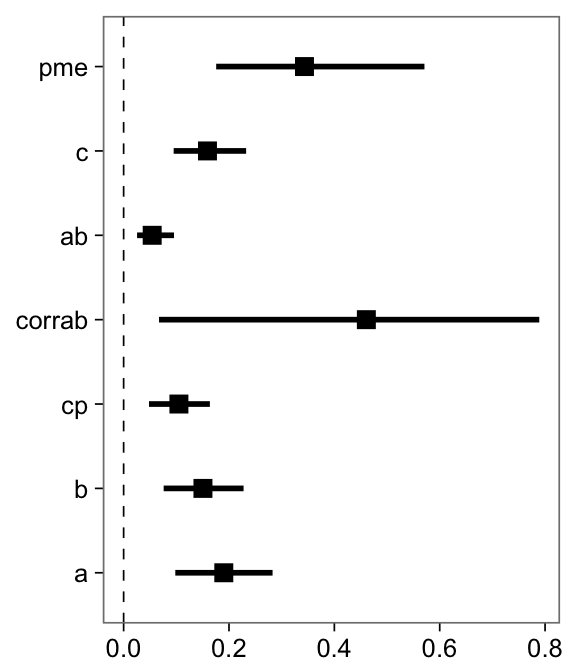
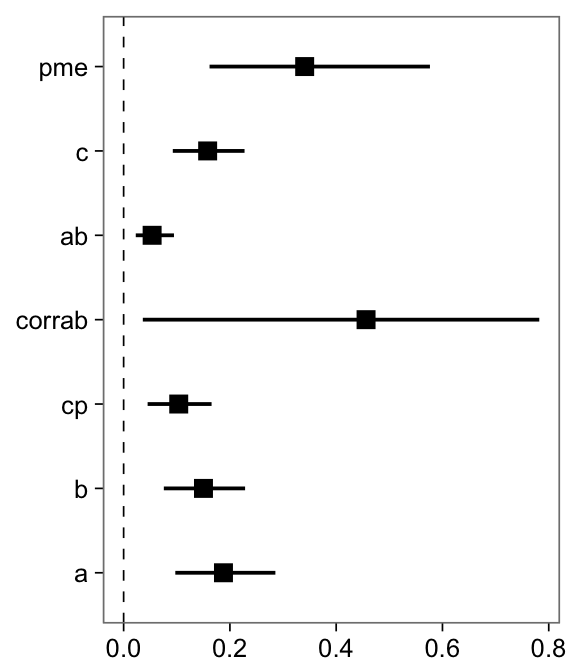
tips and tricks

diff --git a/index.html b/index.html
@@ -11,7 +11,7 @@
 
 <meta name="author" content="Matti Vuorre" />
 
-<meta name="date" content="2016-07-14" />
+<meta name="date" content="2016-07-15" />
 
 <title>bmlm: Multilevel Mediation Modeling with Stan</title>
 
@@ -330,7 +330,7 @@ div.tocify {
 
 <h1 class="title toc-ignore">bmlm: Multilevel Mediation Modeling with Stan</h1>
 <h4 class="author"><em>Matti Vuorre</em></h4>
-<h4 class="date"><em>2016-07-14</em></h4>
+<h4 class="date"><em>2016-07-15</em></h4>
 
 </div>
 
@@ -597,88 +597,88 @@ fit &lt;-<span class="st"> </span><span class="kw">mlm</span>(<span class="dt">d
 <td align="right">0.19</td>
 <td align="right">0.04</td>
 <td align="right">0.19</td>
-<td align="right">0.13</td>
-<td align="right">0.25</td>
+<td align="right">0.10</td>
+<td align="right">0.29</td>
 <td align="right">1.00000</td>
-<td align="right">2106</td>
-<td align="right">1</td>
+<td align="right">2148</td>
+<td align="right">1.00</td>
 </tr>
 <tr class="even">
 <td align="left">b</td>
 <td align="right">0.15</td>
 <td align="right">0.03</td>
 <td align="right">0.15</td>
-<td align="right">0.10</td>
-<td align="right">0.20</td>
+<td align="right">0.08</td>
+<td align="right">0.23</td>
 <td align="right">1.00000</td>
-<td align="right">2077</td>
-<td align="right">1</td>
+<td align="right">2007</td>
+<td align="right">1.00</td>
 </tr>
 <tr class="odd">
 <td align="left">cp</td>
 <td align="right">0.10</td>
 <td align="right">0.02</td>
 <td align="right">0.10</td>
-<td align="right">0.06</td>
-<td align="right">0.14</td>
+<td align="right">0.05</td>
+<td align="right">0.17</td>
 <td align="right">1.00000</td>
 <td align="right">4000</td>
-<td align="right">1</td>
+<td align="right">1.00</td>
 </tr>
 <tr class="even">
 <td align="left">ab</td>
-<td align="right">0.06</td>
+<td align="right">0.05</td>
 <td align="right">0.01</td>
 <td align="right">0.05</td>
-<td align="right">0.03</td>
-<td align="right">0.08</td>
+<td align="right">0.02</td>
+<td align="right">0.09</td>
 <td align="right">1.00000</td>
-<td align="right">1902</td>
-<td align="right">1</td>
+<td align="right">1473</td>
+<td align="right">1.00</td>
 </tr>
 <tr class="odd">
 <td align="left">c</td>
 <td align="right">0.16</td>
 <td align="right">0.03</td>
 <td align="right">0.16</td>
-<td align="right">0.12</td>
-<td align="right">0.21</td>
+<td align="right">0.09</td>
+<td align="right">0.23</td>
 <td align="right">1.00000</td>
-<td align="right">4000</td>
-<td align="right">1</td>
+<td align="right">2951</td>
+<td align="right">1.00</td>
 </tr>
 <tr class="even">
 <td align="left">pme</td>
 <td align="right">0.35</td>
 <td align="right">0.08</td>
 <td align="right">0.34</td>
-<td align="right">0.23</td>
-<td align="right">0.49</td>
+<td align="right">0.16</td>
+<td align="right">0.58</td>
 <td align="right">1.00000</td>
-<td align="right">1977</td>
-<td align="right">1</td>
+<td align="right">1766</td>
+<td align="right">1.00</td>
 </tr>
 <tr class="odd">
 <td align="left">covab</td>
 <td align="right">0.03</td>
 <td align="right">0.01</td>
 <td align="right">0.03</td>
-<td align="right">0.01</td>
-<td align="right">0.04</td>
-<td align="right">0.99925</td>
-<td align="right">1604</td>
-<td align="right">1</td>
+<td align="right">0.00</td>
+<td align="right">0.05</td>
+<td align="right">0.99775</td>
+<td align="right">1364</td>
+<td align="right">1.01</td>
 </tr>
 <tr class="even">
 <td align="left">corrab</td>
 <td align="right">0.45</td>
-<td align="right">0.14</td>
+<td align="right">0.15</td>
 <td align="right">0.46</td>
-<td align="right">0.20</td>
-<td align="right">0.69</td>
-<td align="right">0.99925</td>
-<td align="right">1229</td>
-<td align="right">1</td>
+<td align="right">0.04</td>
+<td align="right">0.78</td>
+<td align="right">0.99775</td>
+<td align="right">1411</td>
+<td align="right">1.00</td>
 </tr>
 </tbody>
 </table>
@@ -741,17 +741,21 @@ Varying effects standard deviations (tau) and correlations (Omega).
 <p>The first three positions (1: path <code>c'</code>, 2: path <code>b</code>, 3: path <code>a</code>) of the varying effects SDs (<span class="math inline">\(\tau\)</span>) and correlations (<span class="math inline">\(\Omega\)</span>) are plotted as histograms. Each histogram represents the MCMC samples of plausible parameter values from the corresponding posterior distribution.</p>
 </div>
 </div>
+</div>
+<div id="tips-and-tricks" class="section level1">
+<h1>Tips and tricks</h1>
+<p>Users can investigate person-specific effects by modifying the input to the functions above.</p>
 <div id="person-specific-effects" class="section level2">
 <h2>Person-specific effects</h2>
 <p>It is also possible to investigate person-specific parameters. These exist with the same name as the average-level parameters, but have “u_” appended to them.</p>
 <div class="sourceCode"><pre class="sourceCode r"><code class="sourceCode r"><span class="kw">head</span>(<span class="kw">mlm_summary</span>(fit, <span class="dt">pars =</span> <span class="st">&quot;u_c&quot;</span>))</code></pre></div>
 <pre><code>##   Parameter Mean   SD Median ci_lwr ci_upr   pprob n_eff Rhat
-## 1    u_c[1] 0.12 0.08   0.12  -0.01   0.27 0.94500  4000    1
-## 2    u_c[2] 0.10 0.08   0.10  -0.04   0.25 0.89400  4000    1
-## 3    u_c[3] 0.11 0.08   0.11  -0.02   0.25 0.93225  2796    1
-## 4    u_c[4] 0.38 0.13   0.36   0.18   0.61 1.00000  4000    1
-## 5    u_c[5] 0.09 0.09   0.10  -0.07   0.25 0.85350  4000    1
-## 6    u_c[6] 0.09 0.08   0.09  -0.05   0.23 0.87625  4000    1</code></pre>
+## 1    u_c[1] 0.12 0.08   0.11  -0.08   0.37 0.94350  4000    1
+## 2    u_c[2] 0.10 0.09   0.10  -0.15   0.35 0.89025  4000    1
+## 3    u_c[3] 0.11 0.08   0.11  -0.09   0.36 0.94325  1911    1
+## 4    u_c[4] 0.37 0.13   0.36   0.10   0.75 0.99950  4000    1
+## 5    u_c[5] 0.09 0.09   0.09  -0.19   0.35 0.86775  4000    1
+## 6    u_c[6] 0.09 0.08   0.09  -0.15   0.33 0.86400  4000    1</code></pre>
 <div class="sourceCode"><pre class="sourceCode r"><code class="sourceCode r"><span class="kw">mlm_pars_plot</span>(fit, <span class="dt">pars =</span> <span class="st">&quot;u_cp&quot;</span>, <span class="dt">type =</span> <span class="st">&quot;coef&quot;</span>, <span class="dt">level =</span> .<span class="dv">75</span>) +<span class="st"> </span>
 <span class="st">    </span><span class="kw">theme</span>(<span class="dt">axis.text.y =</span> <span class="kw">element_blank</span>(),
           <span class="dt">axis.ticks.y =</span> <span class="kw">element_blank</span>())</code></pre></div>
@@ -760,6 +764,16 @@ Varying effects standard deviations (tau) and correlations (Omega).
 <p class="caption">
 Participant-specific c’ path values with 75% Credible Intervals.
 </p>
+</div>
+</div>
+<div id="avoid-copy-pasting" class="section level2">
+<h2>Avoid copy-pasting</h2>
+<p>Copy-pasting results from the R console to manuscripts and reports is error prone. Users may export summary tables automatically to a Word document by using <code>tab2doc()</code>. Note that this function requires the <a href="https://cran.r-project.org/web/packages/ReporteRs/index.html"><strong>ReporteRs</strong> package</a> <span class="citation">(Gohel, 2016)</span>.</p>
+<div class="sourceCode"><pre class="sourceCode r"><code class="sourceCode r"><span class="kw">tab2doc</span>(<span class="kw">mlm_summary</span>(fit))</code></pre></div>
+<p>This function saves a word document with a table of the model’s results. Users may further edit the table’s aesthetics manually in Word.</p>
+<div class="figure">
+<img src="common/table.png" alt="Summary table exported to Word using tab2doc()" />
+<p class="caption">Summary table exported to Word using tab2doc()</p>
 </div>
 </div>
 </div>
@@ -773,7 +787,7 @@ Participant-specific c’ path values with 75% Credible Intervals.
 <p>Users can also input any valid <code>stan()</code> arguments to <code>mlm()</code>; see <code>?stan</code> for details. The fitted object from <code>mlm()</code> is a valid <code>Stanfit</code> object, so all <code>Stanfit</code> methods are available as well. For example, it is important to assess the performance of Stan’s MCMC algorithms after estimating a model by, for example, inspecting traceplots for convergence problems:</p>
 <div class="sourceCode"><pre class="sourceCode r"><code class="sourceCode r">pars &lt;-<span class="st"> </span><span class="kw">c</span>(<span class="st">&quot;a&quot;</span>, <span class="st">&quot;ab&quot;</span>, <span class="st">&quot;cp&quot;</span>, <span class="st">&quot;c&quot;</span>, <span class="st">&quot;corrab&quot;</span>)
 <span class="kw">traceplot</span>(fit, <span class="dt">pars =</span> pars)</code></pre></div>
-<p><img src="index_files/figure-html/unnamed-chunk-18-1.png" width="576" /></p>
+<p><img src="index_files/figure-html/unnamed-chunk-19-1.png" width="576" /></p>
 <p>Further modification of the model is possible through modifying the Stan code underlying <code>mlm()</code>. See <a href="model.html">here</a> for further details.</p>
 </div>
 <div id="references" class="section level1 unnumbered">
@@ -781,6 +795,9 @@ Participant-specific c’ path values with 75% Credible Intervals.
 <div id="refs" class="references">
 <div id="ref-bolger_intensive_2013">
 <p>Bolger, N., &amp; Laurenceau, J.-P. (2013). <em>Intensive longitudinal methods: An introduction to diary and experience sampling research</em>. Guilford Press.</p>
+</div>
+<div id="ref-gohel_reporters:_2016">
+<p>Gohel, D. (2016). ReporteRs: Microsoft word, microsoft PowerPoint and HTML documents generation (Version 0.8.6). Retrieved from <a href="https://cran.r-project.org/web/packages/ReporteRs/index.html" class="uri">https://cran.r-project.org/web/packages/ReporteRs/index.html</a></p>
 </div>
 </div>
 </div>

diff --git a/model.html b/model.html
@@ -11,7 +11,7 @@
 
 <meta name="author" content="Matti Vuorre" />
 
-<meta name="date" content="2016-07-14" />
+<meta name="date" content="2016-07-15" />
 
 <title>bmlm: Model details</title>
 
@@ -191,7 +191,7 @@ $(document).ready(function () {
 
 <h1 class="title toc-ignore">bmlm: Model details</h1>
 <h4 class="author"><em>Matti Vuorre</em></h4>
-<h4 class="date"><em>2016-07-14</em></h4>
+<h4 class="date"><em>2016-07-15</em></h4>
 
 </div>
 
@@ -234,6 +234,124 @@ A, B, C&#39; &amp;\sim Normal(0, prior\_scale)
 C &amp;= C&#39; + AB + \Sigma_{a_{j}b_{j}}
 \end{aligned}
 \end{equation}
+<div id="stan-code" class="section level1">
+<h1>Stan code</h1>
+<pre><code>// Stan code for multilevel mediation model
+
+data {
+    int&lt;lower=1&gt; N;             // Number of observations
+    int&lt;lower=1&gt; J;             // Number of participants
+    int&lt;lower=1,upper=J&gt; id[N]; // Participant IDs
+    vector[N] X;                // Manipulated variable
+    vector[N] M;                // Mediator
+    vector[N] Y;                // Outcome
+    real prior_scale;           // Prior scale for regression params
+    real intrcpt_scale;         // Prior scale for intercepts
+}
+transformed data{
+    real y_mean;                // Mean of Y
+    int K;                      // Number of predictors
+    y_mean = mean(Y);
+    K = 5;
+}
+parameters{
+    // Regression Y on X and M
+    real dy;                    // Intercept
+    real cp;                    // X to Y effect
+    real b;                     // M to Y effect
+    real&lt;lower=0&gt; sigma_y;      // Residual
+    // Regression M on X
+    real dm;                    // Intercept
+    real a;                     // X to M effect
+    real&lt;lower=0&gt; sigma_m;      // Residual
+
+    // Correlation matrix and SDs of participant-level varying effects
+    cholesky_factor_corr[K] L_Omega;
+    vector&lt;lower=0&gt;[K] tau;
+
+    // Standardized varying effects
+    matrix[K, J] z_U;
+}
+transformed parameters {
+    // Participant-level varying effects obtained from vectorized and
+    // standardized z_U matrix
+    matrix[J, K] U;
+
+    // Sample varying effects from Cholesky factorized covariance matrix
+    // diag_pre_multiply(tau, L_Omega) = Cholesky covariance matrix
+    U = (diag_pre_multiply(tau, L_Omega) * z_U)&#39;;
+
+}
+model {
+    // Means of linear models
+    vector[N] mu_y;
+    vector[N] mu_m;
+    // Cholesky factor of covariance matrix
+    matrix[K, K] L_Sigma;
+    // Regression parameter priors
+    dy ~ normal(0, intrcpt_scale);
+    dm ~ normal(0, intrcpt_scale);
+    a ~ normal(0, prior_scale);
+    b ~ normal(0, prior_scale);
+    cp ~ normal(0, prior_scale);
+    // RE SDs and correlation matrix
+    tau[1] ~ cauchy(0, 1);      // u_cp
+    tau[2] ~ cauchy(0, 1);      // u_b
+    tau[3] ~ cauchy(0, 1);      // u_a
+    tau[4] ~ cauchy(0, 1);      // u_intrcpt_y
+    tau[5] ~ cauchy(0, 1);      // u_intrcpt_m
+    L_Omega ~ lkj_corr_cholesky(2);
+    // Allow vectorized sampling of varying effects via stdzd z_U
+    to_vector(z_U) ~ normal(0, 1);
+
+    // Regressions (No intercepts: assume within-person deviated variables)
+    for (n in 1:N){
+        mu_y[n] = (cp + U[id[n], 1]) * X[n] +
+                  (b + U[id[n], 2]) * M[n] +
+                  (dy + U[id[n], 4]);
+        mu_m[n] = (a + U[id[n], 3]) * X[n] +
+                  (dm + U[id[n], 5]);
+    }
+
+    // Data model
+    Y ~ normal(mu_y, sigma_y);
+    M ~ normal(mu_m, sigma_m);
+}
+generated quantities{
+    // Transform Cholesky factorized correlation matrix to corrmat and covmat
+    matrix[K, K] Omega;         // Correlation matrix
+    matrix[K, K] Sigma;         // Covariance matrix
+
+    // Average mediation parameters
+    real covab;                 // a-b covariance
+    real corrab;                // a-b correlation
+    real ab;                    // Indirect effect
+    real c;                     // Total effect
+    real pme;                   // % mediated effect
+
+    // Person-specific mediation parameters
+    vector[J] u_ab;
+    vector[J] u_cp;
+    vector[J] u_c;
+    vector[J] u_pme;
+
+    Omega = L_Omega * L_Omega&#39;;
+    Sigma = quad_form_diag(Omega, tau);
+
+    covab = Sigma[3,2];
+    corrab = Omega[3,2];
+    ab = a*b + covab;
+    c = cp + a*b + covab;
+    pme = ab / c;
+
+    for (j in 1:J) {
+        u_ab[j] = (a + U[j, 3]) * (b + U[j, 2]);
+        u_cp[j] = cp + U[j, 1];
+        u_c[j] = u_cp[j] + u_ab[j];
+        u_pme[j] = u_ab[j] / u_c[j];
+    }
+}</code></pre>
+</div>
 <div id="references" class="section level1 unnumbered">
 <h1>References</h1>
 <div id="refs" class="references">
